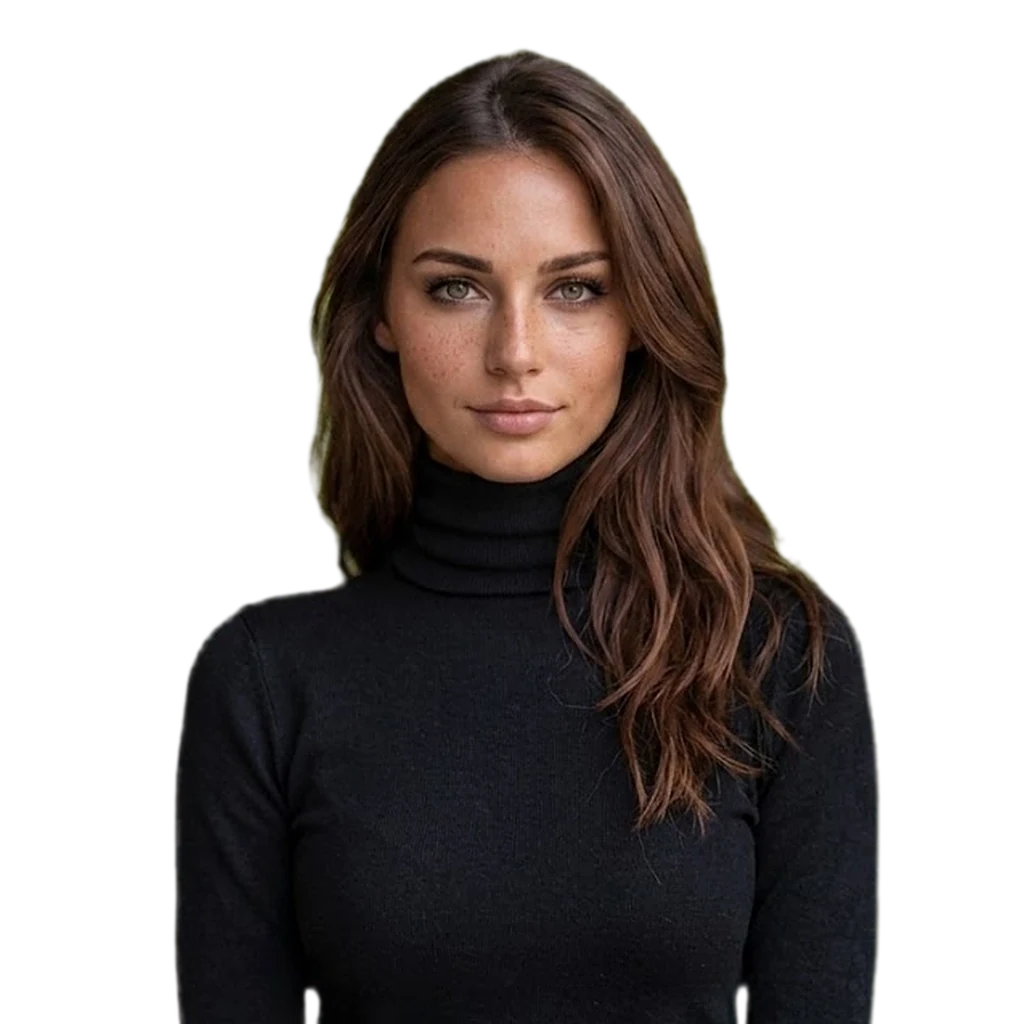
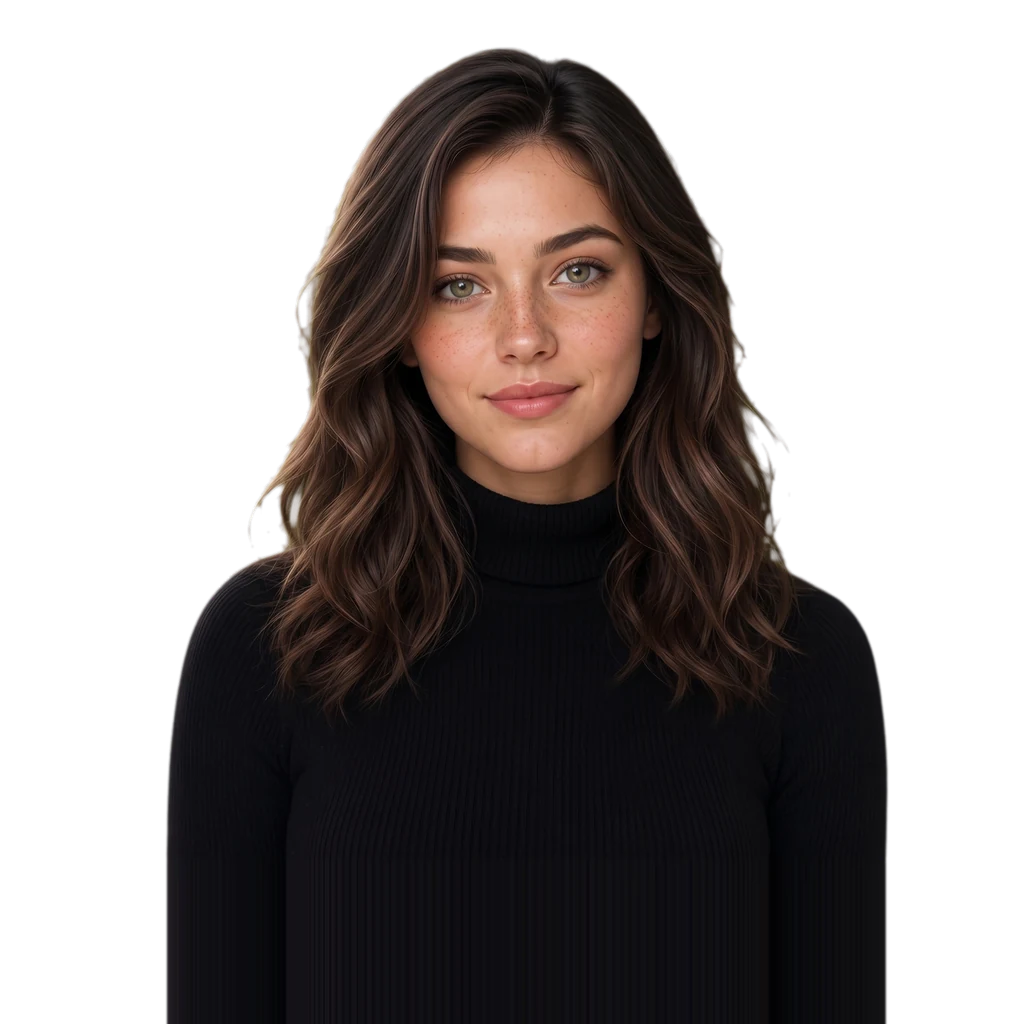
Nova: new face and manual chroma-key values
New full-length cutout and poster from the new green-screen photo (same framing as before). The key uses minKey 130, bias 1.24, softness 111, spill 0.8 with auto-tune off.

diff --git a/src/assets/nova/connect.js b/src/assets/nova/connect.js
@@ -312,7 +312,7 @@ function keyAvatar(transport) {
       session: transport,
       videoEl: transport.videoEl,
       ChromaKeyVideo,
-      options: { autoTune: true, spill: 0.9 },
+      options: { autoTune: false, minKey: 130, bias: 1.24, softness: 111, spill: 0.8 },
       container: box,
     });
     player.canvas.classList.add('nova-keyed-canvas');
